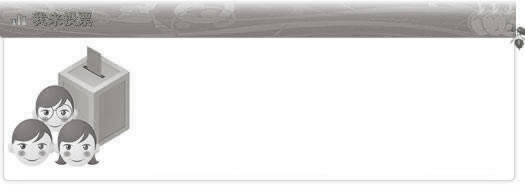
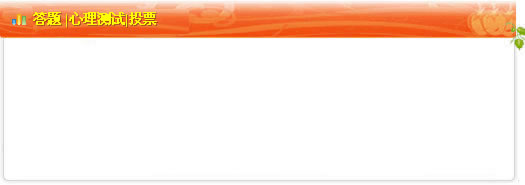
robbin

Changed region(s): [[0.0, 0.0, 1.0, 0.2703], [0.0, 0.2432, 0.2743, 0.9189]]

diff --git a/css/index.css b/css/index.css
@@ -244,23 +244,30 @@ p{margin:0px; padding:0px;}
 #ibody_bottom #p1{width:995px; margin-top:2px; float:left; display:inline;}
 #ibody_bottom #p2{width:995px; margin-top:2px; float:left; display:inline;}
 
-#b_t_l{width:525px; height:188px; background:url(/images/index/bg_b_t_l.jpg) no-repeat; float:left; display:inline;}
-#b_t_l .l_box{width:180px; height:140px; margin-left:145px; margin-top:45px; float:left; display:inline; }
-#b_t_l .r_box{width:170px; height:100px; margin-top:45px; margin-left:5px; float:left; display:inline; }
+#b_t_l{width:525px; height:188px; background:url(/images/index/bg_b_t_l1.jpg) no-repeat; overflow:hidden; float:left; display:inline;}
+#b_t_l .l_box{width:170px; height:140px; margin-left:5px; margin-top:40px; float:left; display:inline; }
+#b_t_l .m_box{width:170px; height:140px; margin-top:40px; float:left; display:inline;}
+#b_t_l .r_box{width:170px; height:100px; margin-top:45px; margin-right:10px; float:right; display:inline; }
+#b_t_l .top_title{width:158px; height:30px; margin-left:12px; line-height:30px; font-weight:bolder; font-size:16px; overflow:hidden; float:left; display:inline;}
+#b_t_l .top_title a{color:#ED4254; text-decoration:none;}
 #b_t_l .bottom_title{width:170px; height:18px; line-height:18px; overflow:hidden; float:left; display:inline;}
 #b_t_l .bottom_title li{width:170px; padding:0px; margin:0px; float:left; display:inline;}
 #b_t_l .bottom_title a{color:#000000; text-decoration:none;}
 #b_t_l #vote{width:83px; height:23px; margin-left:5px; float:left; display:inline;}
 #b_t_l #begin_vote{width:83px; height:23px; margin-left:5px; float:left; display:inline;}
 
-#b_t_r{width:470px; height:188px; background:url(/images/index/bg_b_t_r.jpg) no-repeat; float:right; display:inline;}
-#b_t_r .l_box{width:175px; height:140px; margin-top:40px; float:left; display:inline;}
+#b_t_r{width:470px; height:188px; background:url(/images/index/bg_b_t_r1.jpg) no-repeat; overflow:hidden; float:right; display:inline;}
+#b_t_r .l_box{width:175px; height:140px; margin-top:45px; margin-left:10px; float:left; display:inline;}
+#b_t_r .l_box .pic{width:70px; height:90px; float:left; display:inline;}
+#b_t_r .l_box .pic img{border:3px solid #dddddd;}
+#b_t_r .l_box .title{width:70px; height:90px; margin-top:5px; margin-left:10px; line-height:15px; font-weight:bolder;  overflow:hidden; color:#869C2D; float:left; display:inline;}
 #b_t_r .m_box{width:175px; height:140px; margin-top:40px; float:left; display:inline;}
 #b_t_r .top_title{width:158px; height:30px; margin-top:5px; margin-left:12px; line-height:30px; font-weight:bolder; font-size:16px; overflow:hidden; float:left; display:inline;}
 #b_t_r .top_title a{color:#ED4254; text-decoration:none;}
 #b_t_r .bottom_title{width:170px; height:18px; line-height:18px; overflow:hidden; float:left; display:inline;}
 #b_t_r .bottom_title a{color:#000000; text-decoration:none;}
-#b_t_r .r_box{width:120px; height:140px; margin-top:40px; float:left; display:inline; }
+#b_t_r .r_box{width:240px; height:140px; line-height:20px; margin-top:40px; margin-left:10px; float:left; display:inline;}
+#b_t_r .r_box a{color:#000000; text-decoration:none;}
 #b_t_r .r_box #begin_question{width:73px; height:22px; margin-left:15px; margin-top:6px; float:left; display:inline;}
 #b_t_r .r_box #question{width:106px; height:88px; margin-top:20px; float:left; display:inline;}
 
@@ -296,3 +303,17 @@ p{margin:0px; padding:0px;}
 #b_b_r_r #title{width:200px; height:20px; margin-top:9px; margin-bottom:8px; margin-left:25px; color:#666666; font-weight:bold; line-height:20px; float:left; display:inline;}
 #b_b_r_r a{color:#000000; text-decoration:none; line-height:14px; margin-left:5px;}
 
+#server_brithday{width:988px; margin-left:2px; float:left; display:inline;}
+#server_brithday #title{width:968px; height:30px; padding-left:20px; line-height:30px; font-size:14px; color:#ffff00; font-weight:bold; background:url('/images/index/server_birthday.jpg') no-repeat; float:left; display:inline;}
+#server_brithday .brithday_content{width:984px; margin-left:1px; padding-bottom:10px; border:1px solid #cccccc; border-top:none; float:left; display:inline;}
+#server_brithday .brithday_content .photo{width:83px; height:84px; margin-top:10px; margin-left:10px; background:url('/images/index/brithday_photo.jpg') no-repeat; overflow:hidden; float:left; display:inline;}
+#server_brithday .brithday_content .photo img{width:63px; height:74px; margin-top:5px; margin-left:9px;}
+#server_brithday .brithday_content .brithdayinfo{width:880px; height:84px; margin-top:10px; margin-left:10px; border-left:1px dotted #cccccc; overflow:hidden; float:right; display:inline;}
+#server_brithday .brithday_content .brithdayinfo_l{width:220px; height:84px; margin-left:10px; float:left; display:inline;}
+#server_brithday .brithday_content .brithdayinfo_l .title{width:200px; height:20px; padding-left:20px; font-weight:bold; line-height:20px; background:url('/images/index/cake.jpg') no-repeat; float:left; display:inline;}
+#server_brithday .brithday_content .brithdayinfo_l .l_content{width:220px; height:60px; margin-top:4px; line-height:30px; float:left; display:inline;}
+#server_brithday .brithday_content .brithdayinfo_l .l_content a{color:#336699;}
+#server_brithday .brithday_content .brithdayinfo_r{width:620px; height:84px; margin-left:10px; overflow:hidden; float:left; display:inline;}
+#server_brithday .brithday_content .brithdayinfo_r .title{height:20px; line-height:20px; font-weight:bold; float:left; display:inline;}
+#server_brithday .brithday_content .brithdayinfo_r .pic{width:74px; height:84px; margin-left:14px; float:left; display:inline;}
+#server_brithday .brithday_content .brithdayinfo_r .pic img{width:74px; height:84px;}

diff --git a/javascript/index.js b/javascript/index.js
@@ -44,6 +44,21 @@ function tg()
 	setTimeout('tg2()',5000);	
 }
 
+function birthday(num)
+{
+	$(".brithday_content").css('display','none');
+	$("#brithday_content"+num).css('display','inline');
+}
+
+function xh(count)
+{
+	var i=0;
+	for(i;i<count;i++)
+	{
+		setTimeout('birthday('+i+')',10000*i);
+	}	
+}
+
 $(function(){
 	$(".item").mouseover(function(){
 			var video_item=$(this).attr('id');
@@ -112,10 +127,11 @@ $(function(){
 			var num=$(this).attr('param');
 			$("#content_trrb"+num).css('display','inline');
 
-	});	
+	});
 	setInterval('tg()',10000);
-
-		
+	var count=parseInt($("#countbirthday").val());
+	xh(count);
+	setInterval('xh('+count+')',10000*count+10000);	
 });
 
 

diff --git a/index.php b/index.php
@@ -1036,39 +1036,7 @@ $gb=$db->query('select description,content from smg_news where id=47028');
     <div id=p1>
       <!-- start bottom_top_left !-->
  			<div id=b_t_l <?php if(date('Y-m-d')=="2010-04-01"){ ?>style="background:url('images/index/bg_b_t_l1.jpg') no-repeat;"<?php } ?>>
- 				<?php  
-					$sql = 'select id,name from smg_vote where is_sub_vote =0 and is_adopt=1 and (category_id=0 or category_id=11) order by created_at desc limit 12';
-					$record = $db->query($sql);
-					$count = count($record);
-				?>
 				<div class=l_box>
-					<?php
-						$l_count = $count>7?7:$count;
-						for($i=0;$i<$l_count;$i++){
-					?>
-					<div class="bottom_title"><li><span style="color:#FF9900">·</span><a   <?php if($i<3){?>style="color:#ff0000"<?php }?> href="/vote/vote.php?vote_id=<?php echo $record[$i]->id ?>" title='<?php echo strip_tags($record[$i]->name); ?>' target=_blank><?php echo strip_tags($record[$i]->name);?></a></li></div>
-					<?php
-						}
-					?>
-				</div>
-				<div class=r_box>
-					<?php
-						$count = $count-7>0?$count:7;
-						for($i=7;$i<$count;$i++){
-					?>
-					<div class="bottom_title"><li><span style="color:#FF9900;">·</span><a   href="/vote/vote.php?vote_id=<?php echo $record[$i]->id ?>" title="<?php echo strip_tags($record[$i]->name); ?>" target=_blank><?php echo strip_tags($record[$i]->name);?></a></li></div>
-					<?php
-						}
-					?>
-				</div>
-				<div id=vote><a   href="/vote/vote_list.php" target="_blank"><img border=0 src="/images/index/vote.jpg"></a></div>
-				<div id=begin_vote><a   href="/vote/beginvote.php" target="_blank"><img border=0 src="/images/index/begin_vote.jpg"></a></div>
- 			</div>
- 			<!-- end !-->	      	
- 
-      <!-- start bottom_top_right !-->
- 			<div id=b_t_r <?php if(date('Y-m-d')=="2010-04-01"){ ?>style="background:url('images/index/bg_b_t_r1.jpg') no-repeat;"<?php } ?>>
- 				<div class=l_box>
  					<?php $sql = 'select id,title from smg_question where is_adopt=1 and problem_id<>39 order by create_time desc limit 6';
  								$record = $db->query($sql);
  					 ?>
@@ -1101,94 +1069,29 @@ $gb=$db->query('select description,content from smg_news where id=47028');
 						//}
 					?>
 				</div>
+				<?php  
+					$sql = 'select id,name from smg_vote where is_sub_vote =0 and is_adopt=1 and (category_id=0 or category_id=11) order by created_at desc limit 6';
+					$record = $db->query($sql);
+					$count = count($record);
+				?>
 				<div class=r_box>
-					<div id=begin_question><a   href="/answer/question.php" target="_blank"><img border=0 src="/images/index/begin_question.jpg"></a></div>
-					<div id=question><a   href="/answer/answerlist.php" target="_blank"><img border=0 src="/images/index/question<?php if(date('Y-m-d')=='2010-04-01'){ ?>1<?php } ?>.jpg"></a></div>
-				</div>
- 			</div>
- 			<!-- end !-->	 
-    	
-    </div>
-    <div id=p2>
-      <!-- start bottom_bottom_left !-->
- 			<div id=b_b_l>
- 				<div id=title>生日祝福</div>
-				<div id=gift_list>
 					<?php
-						$sql = 'select count(t1.reciever) as count,t2.nick_name from smg_birthday_gift t1 join smg_user t2 on t1.reciever=t2.name group by t1.reciever order by count desc limit 3';
-						$record_birthday = $db->query($sql);
-					?>
-					NO1.<?php echo $record_birthday[0]->nick_name;?>&nbsp;<?php echo $record_birthday[0]->count?>份&nbsp;
-					NO2.<?php echo $record_birthday[1]->nick_name;?>&nbsp;<?php echo $record_birthday[1]->count?>份&nbsp;
-					NO3.<?php echo $record_birthday[2]->nick_name;?>&nbsp;<?php echo $record_birthday[2]->count?>份
-				</div>
-				<div id="box_body">
-	 				<marquee direction="up" scrollamount="1" height="62" width="300" onmouseover=this.stop() onmouseout=this.start()  >
-	 				<?php
-						$today = date("m-d");
-						$sql = 'select t1.nickname,t1.gender,t2.name from smg_user_real t1 join smg_org_dept t2 on t1.org_id=t2.orgid where t1.birthday_short="'.date("m-d").'" and t1.hide_birthday=0 and t1.state=3';
-						$records = $db->query($sql);
-						$count = count($records);
 						for($i=0;$i<$count;$i++){
 					?>
-						<?php if($records[$i]->gender=='男'){?><img src="/images/index/birthday_boy.jpg"><?php }else{?><img src="/images/index/birthday_girl.jpg"><?php } ?><a   href="/server/today.php" target="_blank"><?php echo $records[$i]->nickname; ?><span style="color:#727272">[<?php echo  $records[$i]->name; ?>]</span></a><a   href="/server/today.php" target="_blank"><img src="/images/index/birthday_sun.jpg" border=0 ></a>　　
+					<div class="bottom_title"><li><span style="color:#FF9900;">·</span><a   href="/vote/vote.php?vote_id=<?php echo $record[$i]->id ?>" title="<?php echo strip_tags($record[$i]->name); ?>" target=_blank><?php echo strip_tags($record[$i]->name);?></a></li></div>
 					<?php
 						}
 					?>
-					</marquee>
 				</div>
+				<div id=vote><a href="/answer/question.php" target="_blank"><img border=0 src="/images/index/vote1.jpg"></a></div>
+				<div id=begin_vote><a href="/vote/beginvote.php" target="_blank"><img border=0 src="/images/index/begin_vote1.jpg"></a></div>
  			</div>
- 			<!-- end !-->	     	
-    	
-      <!-- start bottom_bottom_center !-->
- 			<div id=b_b_c>
- 				<div id=title>番茄喜讯</div>
-				<DIV id=Layer5 style="margin-left:10px; ">
-				      <DIV id=demo6 style="OVERFLOW: hidden; WIDTH: 95%;">
-				      <TABLE cellSpacing=0 cellPadding=0 border=0>
-				        <TBODY>
-				        <TR>
-				          <TD id=demo7 vAlign=top align=middle>
-				            <TABLE cellSpacing=0 cellPadding=2 border=0>
-				              <TBODY>
-				              <TR align=left>
-				              	<?php
-									$marry=$db->query('select photo,name from smg_marry order by id desc limit 5');
-									for($i=0;$i<count($marry);$i++){
-								?>
-				                <TD><div class=content>
-							<div class=pic><a   target="_blank" href="/server/marry.php"><img border=0 width=90 height=70 src="<?php echo $marry[$i]->photo;?>"></a></div>
-							<div class=context><a   target="_blank" href="/server/marry.php"><?php echo $marry[$i]->name;?></a><br></div>
-						</div></TD>
-				                <? }?>
-				              </TR></TBODY></TABLE></TD>
-				          			<TD id="demo8" vAlign=top></TD></TR></TBODY></TABLE></DIV>
-								      <SCRIPT>
-								        var demo6 = document.getElementById('demo6');
-										var demo7 = document.getElementById('demo7');
-										var demo8 = document.getElementById('demo8');  
-								      	$(document).ready(function(){
-											var speed=30//速度数值越大速度越慢
-											demo8.innerHTML=demo7.innerHTML
-											function Marquee(){
-											if(demo8.offsetWidth-demo6.scrollLeft<=0)
-											demo6.scrollLeft-=demo7.offsetWidth
-											else{
-											demo6.scrollLeft++
-											}
-											}
-											var MyMar=setInterval(Marquee,speed)
-											demo6.onmouseover=function() {clearInterval(MyMar)}
-											demo6.onmouseout=function() {MyMar=setInterval(Marquee,speed)}
-										})
-									</SCRIPT>
-				</DIV>
- 			</div>
- 			<!-- end !-->	
-      <!-- start bottom_bottom_right !-->
- 			<div id=b_b_r>
-				<div id=title>在线杂志</div>
-				      <DIV id=demo9 style="OVERFLOW: hidden; WIDTH: 95%;">
+ 			<!-- end !-->	      	
+ 
+      <!-- start bottom_top_right !-->
+ 			<div id=b_t_r>
+ 				<div class=l_box>
+ 					<DIV id=demo9 style="OVERFLOW: hidden; WIDTH: 95%;">
 				      <TABLE cellSpacing=0 cellPadding=0 border=0>
 				        <TBODY>
 				        <TR>
@@ -1203,7 +1106,7 @@ $gb=$db->query('select description,content from smg_news where id=47028');
 									for($i=0;$i<$count;$i++){
 								?>
 				                <TD><div class=box>
-										<div class=pic><a   href="/show/show.php?id=<?php echo $records[$i]->i_id;?>" target="_blank" title="<?php echo $records[$i]->title;?>"><img src="<?php echo $records[$i]->src;?>" border=0 width=70 height=90></a></div>
+										<div class=pic><a href="/show/show.php?id=<?php echo $records[$i]->i_id;?>" target="_blank" title="<?php echo $records[$i]->title;?>"><img src="<?php echo $records[$i]->src;?>" border=0 width=70 height=90></a></div>
 										<div class=title><?php echo $records[$i]->title;?></div>
 									</div></TD>
 				                <? }?>
@@ -1228,36 +1131,66 @@ $gb=$db->query('select description,content from smg_news where id=47028');
 											demo9.onmouseout=function() {MyMar=setInterval(Marquee,speed)}
 										})
 									</SCRIPT>
+									
+ 				</div>
+ 				<div class=r_box>
+	 				<table width="240" align="left">
+							<tr>	
+								<td><a   style="text-decoration:none; color:#000000; font-weight:normal;" target="_blank" href="http://www.ddmap.com/">丁丁地图</a></td><td><a   style="text-decoration:none; color:#000000; font-weight:normal;" target="_blank"  href="http://www.ddtong.cn/">实时交通路况查询</a></td>
+							</tr>
+							<tr>
+								
+								<td><a   style="text-decoration:none; color:#000000; font-weight:normal;" target="_blank" href="http://meishi.enjoyoung.cn/">人气美食</a></td><td><a   style="text-decoration:none; color:#000000; font-weight:normal;" target="_blank" href="http://www.shjtaq.com/zwfg/dzjc_new.asp">上海交通违章查询</a></td>
+							</tr>
+							<tr>	
+								<td><a   style="text-decoration:none; color:#000000; font-weight:normal;" target="_blank" href="http://www.qunar.com/">机票折扣查询</a></td><td><a   style="text-decoration:none; color:#000000; font-weight:normal;" target="_blank" href="http://jujia.enjoyoung.cn/xingshangportal/main/main.do">星尚居家</a></td>
+							</tr>
+							<tr style="border-bottom:dashed 1px #999999">
+								<td><a   style="text-decoration:none; color:#000000; font-weight:normal;" target="_blank" href="http://www.soku.net/huoche/TrainStation/381.Html">火车时刻表</a></td><td><a   style="text-decoration:none; color:#000000; font-weight:normal;" target="_blank" href="http://www.feeyo.com/flightsearch.htm">航班时刻查询</a></td>
+							</tr>
+							<tr height=1><td height=1 colspan=2><div style="width:100%; line-height:0px; height:1px; border-bottom:dashed 1px #999999;"></div></td></tr>
+							<script type="text/javascript" src="http://hq.sinajs.cn/list=s_sh000001,s_sz399001" charset="utf-8"></script>
+							<script type="text/javascript"> 
+								var elements=hq_str_s_sh000001.split(","); 
+								document.write("<tr><td><a target='_blank' href='http://finance.sina.com.cn/realstock/company/sh000001/nc.shtml'>上证指数:"+elements[1]+"</a></td><td>");
+								elements=hq_str_s_sz399001.split(",");
+								document.write("<a target='_blank' href='http://finance.sina.com.cn/realstock/company/sz399001/nc.shtml'>深圳成指:"+elements[1]+"</a></td></tr>");
+							</script>
+					</table>
+				</div>
  			</div>
-			<div id=b_b_r_r>
-				<div id=title>生活指南　　　<!--<a   id="line2" style="text-decoration:none; color:#000000; font-weight:bold;" target="_blank" href="http://218.242.133.83:8080/">公交卡余额查询</a>--></div>
-				<table width="240" align="left">
-						<tr>	
-							<td><a   style="text-decoration:none; color:#000000; font-weight:normal;" target="_blank" href="http://www.ddmap.com/">丁丁地图</a></td><td><a   style="text-decoration:none; color:#000000; font-weight:normal;" target="_blank"  href="http://www.ddtong.cn/">实时交通路况查询</a></td>
-						</tr>
-						<tr>
-							
-							<td><a   style="text-decoration:none; color:#000000; font-weight:normal;" target="_blank" href="http://meishi.enjoyoung.cn/">人气美食</a></td><td><a   style="text-decoration:none; color:#000000; font-weight:normal;" target="_blank" href="http://www.shjtaq.com/zwfg/dzjc_new.asp">上海交通违章查询</a></td>
-						</tr>
-						<tr>	
-							<td><a   style="text-decoration:none; color:#000000; font-weight:normal;" target="_blank" href="http://www.qunar.com/">机票折扣查询</a></td><td><a   style="text-decoration:none; color:#000000; font-weight:normal;" target="_blank" href="http://jujia.enjoyoung.cn/xingshangportal/main/main.do">星尚居家</a></td>
-						</tr>
-						<tr style="border-bottom:dashed 1px #999999">
-							<td><a   style="text-decoration:none; color:#000000; font-weight:normal;" target="_blank" href="http://www.soku.net/huoche/TrainStation/381.Html">火车时刻表</a></td><td><a   style="text-decoration:none; color:#000000; font-weight:normal;" target="_blank" href="http://www.feeyo.com/flightsearch.htm">航班时刻查询</a></td>
-						</tr>
-						<tr height=1><td height=1 colspan=2><div style="width:100%; line-height:0px; height:1px; border-bottom:dashed 1px #999999;"></div></td></tr>
-						<script type="text/javascript" src="http://hq.sinajs.cn/list=s_sh000001,s_sz399001" charset="utf-8"></script>
-						<script type="text/javascript"> 
-							var elements=hq_str_s_sh000001.split(","); 
-							document.write("<tr><td><a target='_blank' href='http://finance.sina.com.cn/realstock/company/sh000001/nc.shtml'>上证指数:"+elements[1]+"</a></td><td>");
-							elements=hq_str_s_sz399001.split(",");
-							document.write("<a target='_blank' href='http://finance.sina.com.cn/realstock/company/sz399001/nc.shtml'>深圳成指:"+elements[1]+"</a></td></tr>");
-						</script>
-				</table>
-				
-			</div>
  			<!-- end !-->	 
-
+    	
+    </div>
+			<div id=server_brithday>
+				<div id=title>生日祝福</div>
+				<?php
+						$today = date("m-d");
+						$sql = 'select t1.nickname,t1.gender,t1.loginname,t2.name from smg_user_real t1 join smg_org_dept t2 on t1.org_id=t2.orgid where t1.birthday_short="'.$today.'" and t1.hide_birthday=0 and t1.state=3';
+						$records = $db->query($sql);
+						$count = count($records);
+						for($i=0;$i< $count;$i++){
+				?>
+				<div class=brithday_content id="brithday_content<?php echo $i; ?>" <?php if($i >0){ ?>style="display:none;"<?php } ?>>
+					<div class=photo><img src="" /></div>
+					<div class=brithdayinfo>
+						<div class=brithdayinfo_l>
+							<div class=title>生日提醒：</div>
+							<div class=l_content>今天是<a href="/server/today.php"><?php echo $records[$i]->nickname; ?></a>的生日（<?php echo $today; ?>）<br><a href="/server/today.php">送他/她生日礼物</a></div>
+						</div>
+						<?php $sql="select distinct(gift_src) from smg_birthday_gift where reciever='".$records[$i]->loginname."' order by created_at desc";
+						$gift=$db->query($sql); ?>
+						<div class=brithdayinfo_r>
+							<div class=title>已收到的礼物：</div>
+							<?php for($j=0;$j<count($gift);$j++){ ?>
+							<div class=pic><img src="<?php echo $gift[$j]->gift_src; ?>" /></div>
+							<?php } ?>
+						</div>	
+					</div>
+				</div>
+				<?php } ?>
+				<input id="countbirthday" type="hidden" value="<?php echo $count; ?>">
+			</div>
     </div>
  </div> 
  
